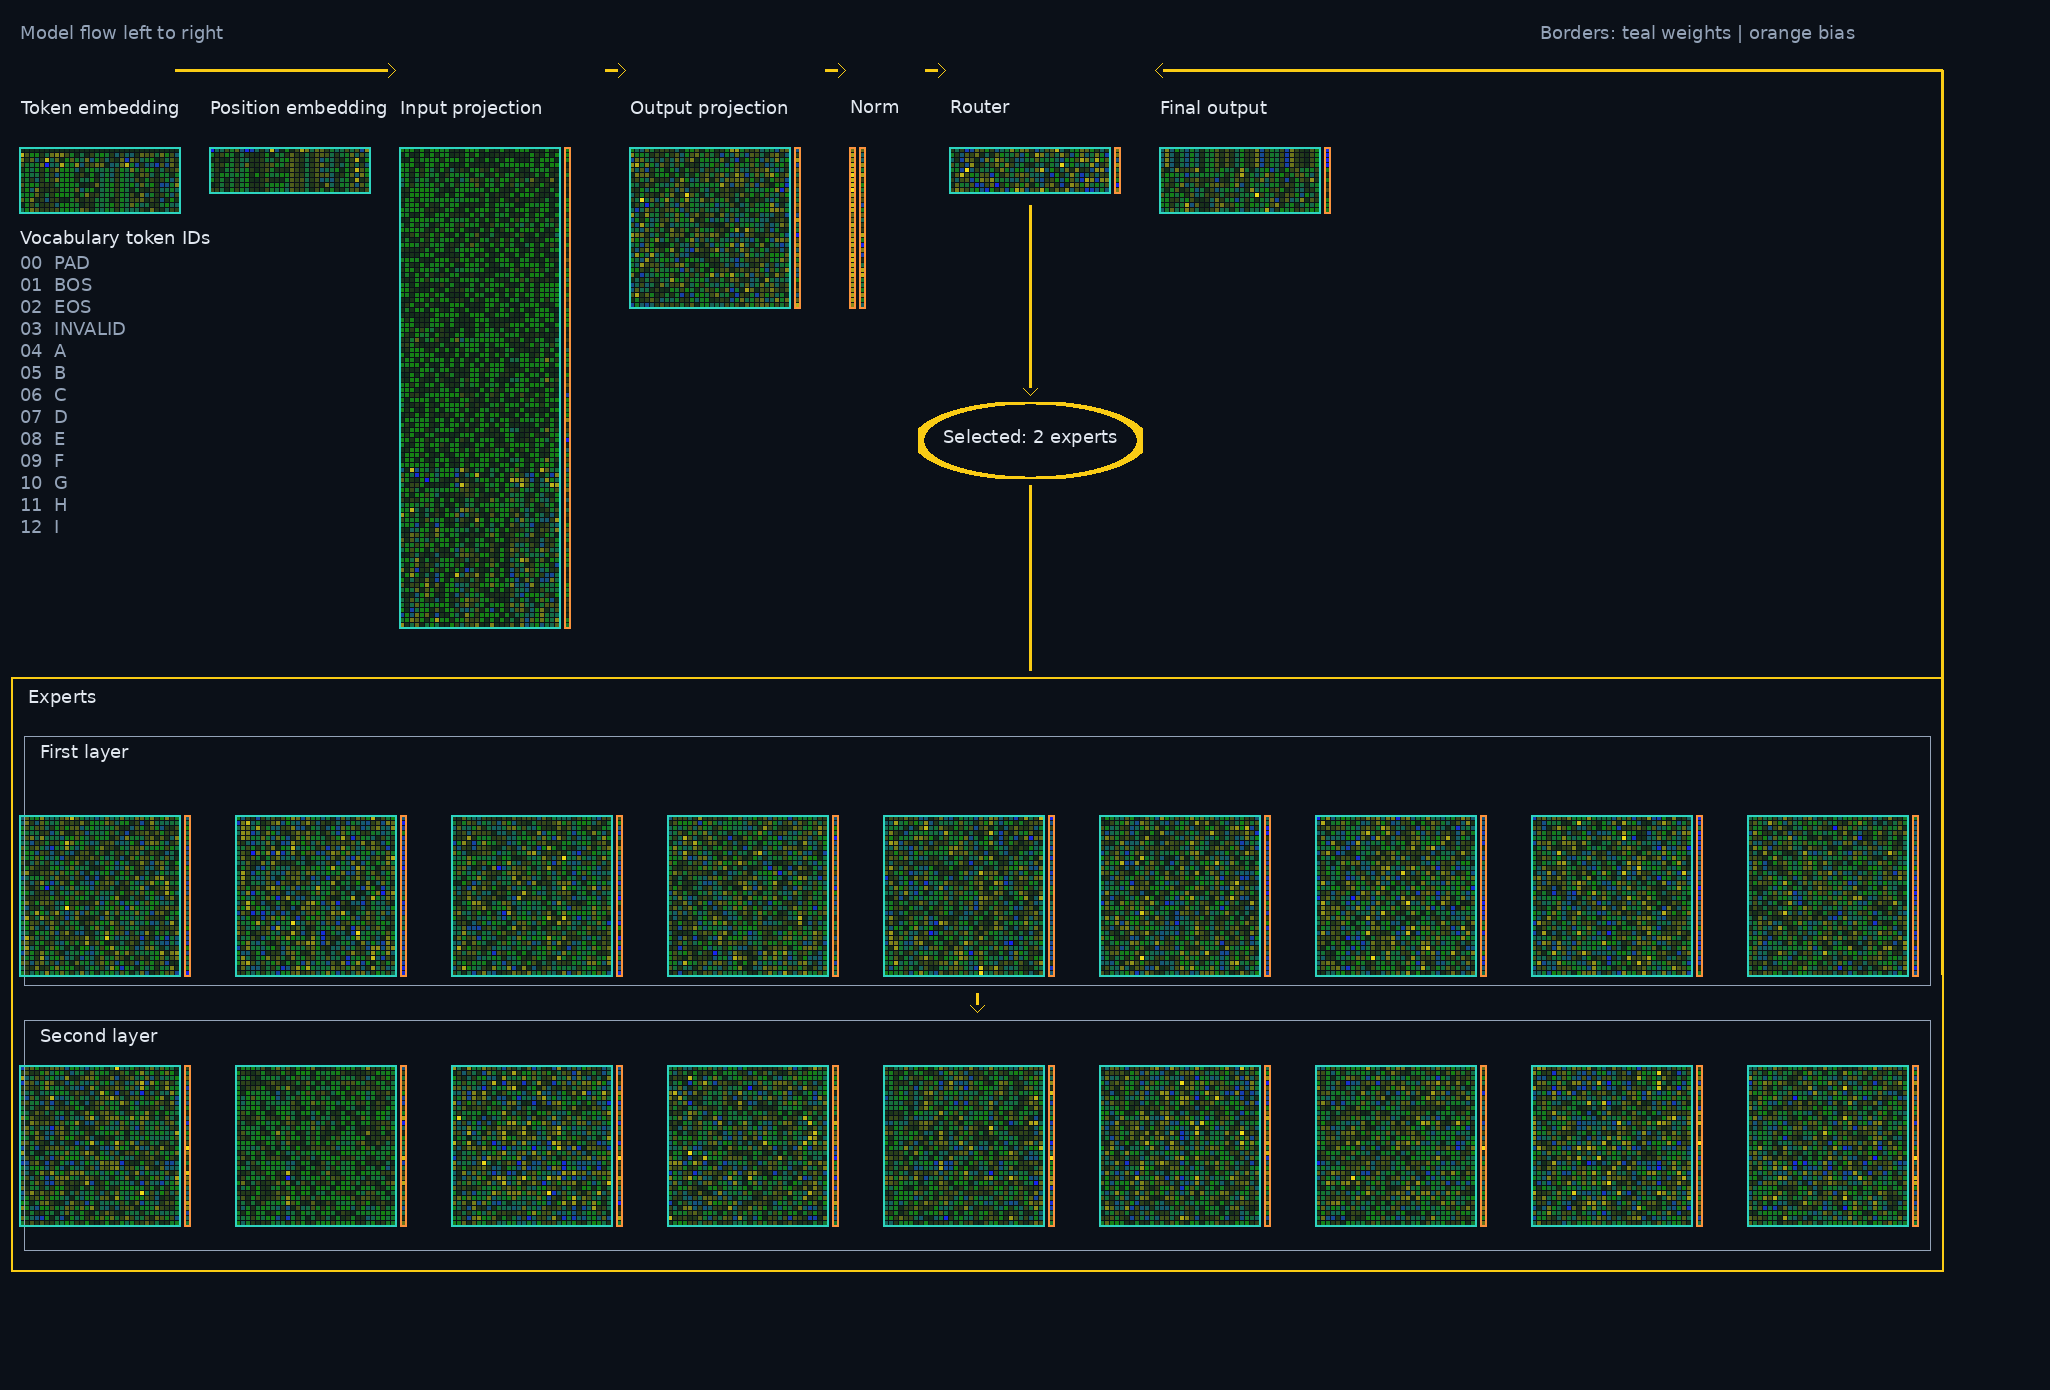
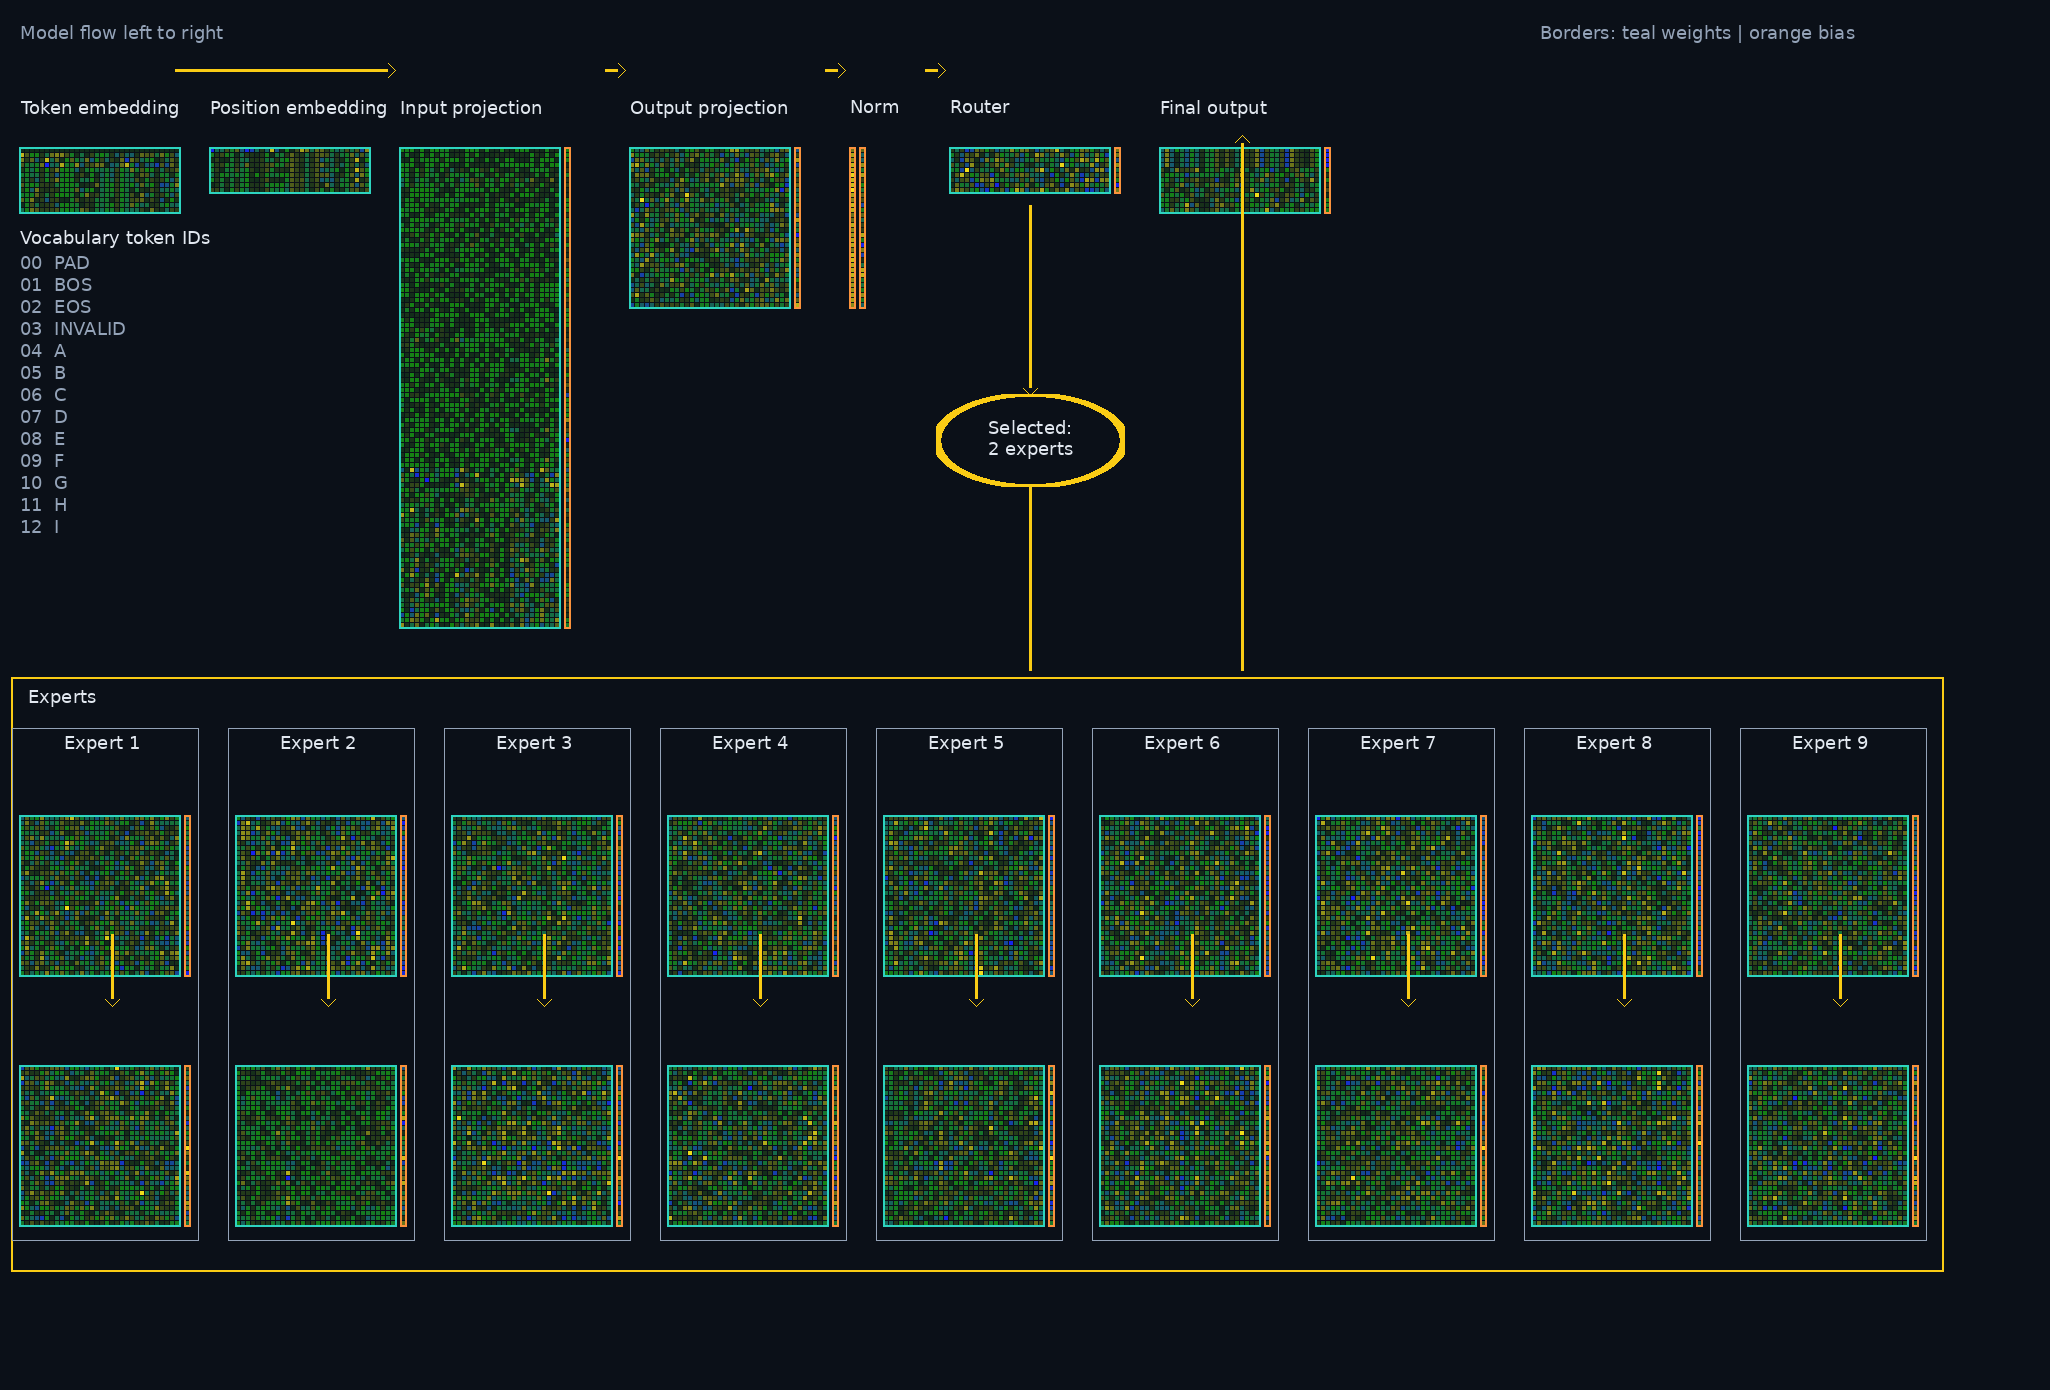
Group each inspector expert into a complete layer pair

diff --git a/tools/tensor_inspector.py b/tools/tensor_inspector.py
@@ -196,34 +196,34 @@ def render_checkpoint_inspector(source: Path) -> tuple[bytes, dict[str, object]]
     expert_top, expert_bottom = expert_y - 42, 1270
     _rectangle(rgb, width, expert_left, expert_top, expert_right - expert_left, expert_bottom - expert_top, _FLOW)
     _text(rgb, width, expert_left + 16, expert_top + 12, "Experts", _LABEL)
-    first_top, first_bottom = expert_y + 16, expert_y + 265
-    second_top, second_bottom = expert_y + 300, expert_y + 530
-    _rectangle(rgb, width, expert_left + 12, first_top, expert_right - expert_left - 24, first_bottom - first_top, _MUTED, 1)
-    _rectangle(rgb, width, expert_left + 12, second_top, expert_right - expert_left - 24, second_bottom - second_top, _MUTED, 1)
-    _text(rgb, width, expert_left + 28, first_top + 8, "First layer", _LABEL)
-    _text(rgb, width, expert_left + 28, second_top + 8, "Second layer", _LABEL)
     _arrow(rgb, width, router_center, 205, router_center, 395)
     _line(rgb, width, router_center, 485, router_center, expert_top - 8)
-    _ellipse(rgb, width, router_center, 440, 112, 38)
-    _centered_text(rgb, width, router_center, 429, "Selected: 2 experts", _LABEL)
+    _ellipse(rgb, width, router_center, 440, 94, 46)
+    _centered_text(rgb, width, router_center, 420, "Selected:", _LABEL)
+    _centered_text(rgb, width, router_center, 442, "2 experts", _LABEL)
     for expert in range(9):
         x = _MARGIN + expert * (expert_width + expert_gap)
+        box_top, box_bottom = expert_y + 8, expert_y + 520
+        _rectangle(rgb, width, x - 8, box_top, 186, box_bottom - box_top, _MUTED, 1)
+        _centered_text(rgb, width, x + 82, box_top + 8, f"Expert {expert + 1}", _LABEL)
         _render_pair(rgb, width, state, f"experts.{expert}.0.weight", f"experts.{expert}.0.bias", "", x, expert_y + 48)
         _render_pair(rgb, width, state, f"experts.{expert}.2.weight", f"experts.{expert}.2.bias", "", x, expert_y + 298)
-    _arrow(rgb, width, (expert_left + expert_right) // 2, first_bottom + 8, (expert_left + expert_right) // 2, second_top - 8)
-    # The output panel shares the router's top-row alignment; the final path rises from the complete experts box.
-    _line(rgb, width, expert_right, (expert_top + expert_bottom) // 2, expert_right, 70)
-    _arrow(rgb, width, expert_right, 70, 1155, 70)
+        _arrow(rgb, width, x + 92, expert_y + 214, x + 92, expert_y + 286)
+    # The output panel shares the router's top-row alignment; this return arrow is parallel to router-to-experts.
+    output_center = 1242
+    _arrow(rgb, width, output_center, expert_top - 8, output_center, 135)
 
     metadata = {
-        "format": "crystal-9-tensor-inspector-v6", "source": source.name,
+        "format": "crystal-9-tensor-inspector-v7", "source": source.name,
         "source_sha256": hashlib.sha256(source.read_bytes()).hexdigest(), "tensor_count": len(state),
-        "normalization": "per-tensor symmetric max-absolute", "layout": "architecture-flow-v6",
+        "normalization": "per-tensor symmetric max-absolute", "layout": "architecture-flow-v7",
         "bias_alignment": "vertical output-row axis", "sections": ["inputs", "attention", "norm_router", "experts", "output"],
         "legend": {"WEIGHTS": "matrix; rows are output features", "BIAS": "bias column; one value per output row", "B": "bias column; one value per output row"},
-        "expert_layout": "one Experts box with First layer and Second layer boxed within it",
+        "expert_layout": "nine Expert boxes, each containing its first and second layer",
         "calculation_flow": ["embeddings and positions", "attention", "norm and router", "top-2 routed experts", "combined output"],
         "vocabulary": _VOCABULARY, "font": "DejaVu Sans", "router_selection_label": "Selected: 2 experts",
+        "router_selection_lines": ["Selected:", "2 experts"],
+        "expert_return_path": "vertical upward arrow, parallel to router-to-experts, ending below Final output",
         "border_legend": {"teal": "weight matrix", "orange": "bias vector"}, "tensors": inventory, "width": width, "height": height,
     }
     rows = b"".join(b"\0" + rgb[row * width * 3 : (row + 1) * width * 3] for row in range(height))

diff --git a/tests/test_tensor_inspector.py b/tests/test_tensor_inspector.py
@@ -15,13 +15,15 @@ def test_checkpoint_inspector_renders_actual_tensor_inventory_as_png():
     assert metadata["tensors"]["attention.in_proj_weight"]["shape"] == [96, 32]
     assert metadata["tensors"]["experts.0.0.weight"]["shape"] == [32, 32]
     assert metadata["normalization"] == "per-tensor symmetric max-absolute"
-    assert metadata["layout"] == "architecture-flow-v6"
+    assert metadata["layout"] == "architecture-flow-v7"
     assert metadata["bias_alignment"] == "vertical output-row axis"
     assert metadata["sections"][-2:] == ["experts", "output"]
     assert metadata["legend"]["B"] == "bias column; one value per output row"
-    assert metadata["expert_layout"] == "one Experts box with First layer and Second layer boxed within it"
+    assert metadata["expert_layout"] == "nine Expert boxes, each containing its first and second layer"
     assert metadata["calculation_flow"] == ["embeddings and positions", "attention", "norm and router", "top-2 routed experts", "combined output"]
     assert metadata["vocabulary"] == ["<pad>", "<bos>", "<eos>", "!", "a", "b", "c", "d", "e", "f", "g", "h", "i"]
     assert metadata["font"] == "DejaVu Sans"
     assert metadata["router_selection_label"] == "Selected: 2 experts"
+    assert metadata["router_selection_lines"] == ["Selected:", "2 experts"]
+    assert metadata["expert_return_path"] == "vertical upward arrow, parallel to router-to-experts, ending below Final output"
     assert metadata["border_legend"] == {"teal": "weight matrix", "orange": "bias vector"}

diff --git a/tools/export_tensor_inspectors.py b/tools/export_tensor_inspectors.py
@@ -31,7 +31,7 @@ def main() -> None:
             "tensor_count": metadata["tensor_count"], "width": metadata["width"], "height": metadata["height"],
             "normalization": metadata["normalization"], "derived": True,
         })
-    (OUTPUT.parent / "inspectors.json").write_text(json.dumps({"format": "crystal-9-tensor-inspector-v6", "inspectors": inspectors}, indent=2) + "\n")
+    (OUTPUT.parent / "inspectors.json").write_text(json.dumps({"format": "crystal-9-tensor-inspector-v7", "inspectors": inspectors}, indent=2) + "\n")
 
 
 if __name__ == "__main__":
